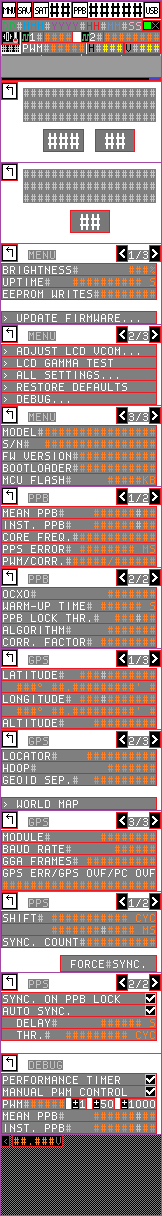
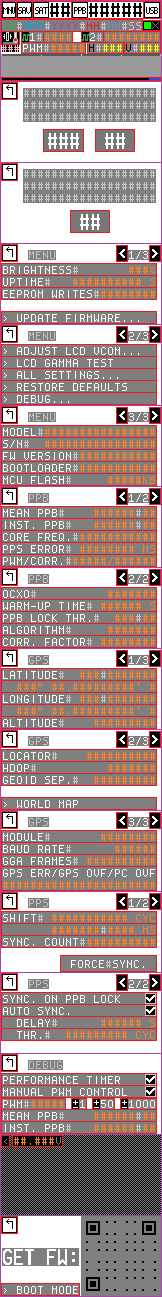
Add restart in boot mode command to the menu

diff --git a/src/ui.c b/src/ui.c
@@ -297,11 +297,13 @@ UIScreen ui_world_map_screen = {
 // Update Firmware Screen Layout
 //------------------------------------------------------------------------------
 static void ui_proc_update_fw_label(const UIElement* element, UICommand command, int32_t encoder_step);
+static void ui_proc_update_fw_boot(const UIElement* element, UICommand command, int32_t encoder_step);
 static void ui_proc_update_fw_qr(const UIElement* element, UICommand command, int32_t encoder_step);
 
 static const UIElement ui_update_fw_screen_elements[] = {
     { 1,  1,  15, 16, UI_STYLE_FOCUSABLE, ui_proc_back_to_main    },
     { 1,  32, 77, 18, UI_STYLE_NONE,      ui_proc_update_fw_label },
+    { 1,  68, 77, 11, UI_STYLE_FOCUSABLE, ui_proc_update_fw_boot  },
     { 80, 0,  80, 80, UI_STYLE_NONE,      ui_proc_update_fw_qr    },
 };
 
@@ -2533,6 +2535,17 @@ static void ui_proc_update_fw_label(const UIElement* element, UICommand command,
     ui_default_element_proc(element, command, encoder_step);
 }
 
+static void ui_proc_update_fw_boot(const UIElement* element, UICommand command, int32_t encoder_step)
+{
+    ui_draw_static_label(element, command, "> Boot Mode", UI_COLOR_LINK);
+
+    if (command & UICommand_Click) {
+        // Reset the MCU. Because the reset is near-instant, the bootloader will detect the user's prolonged button press upon startup.
+        HAL_NVIC_SystemReset();
+    }
+
+    ui_default_element_proc(element, command, encoder_step);
+}
 
 static void ui_proc_update_fw_qr(const UIElement* element, UICommand command, int32_t encoder_step)
 {
